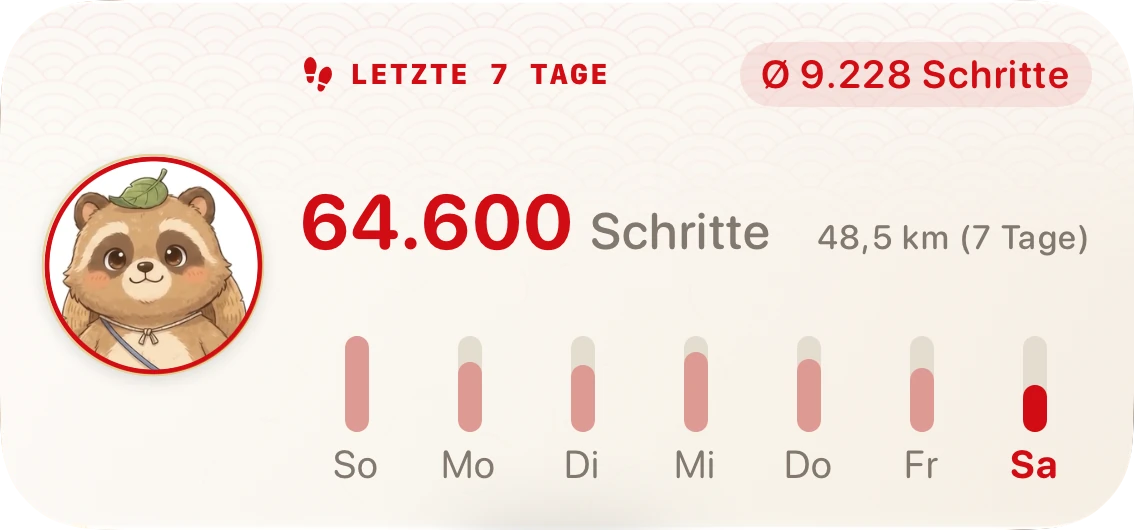
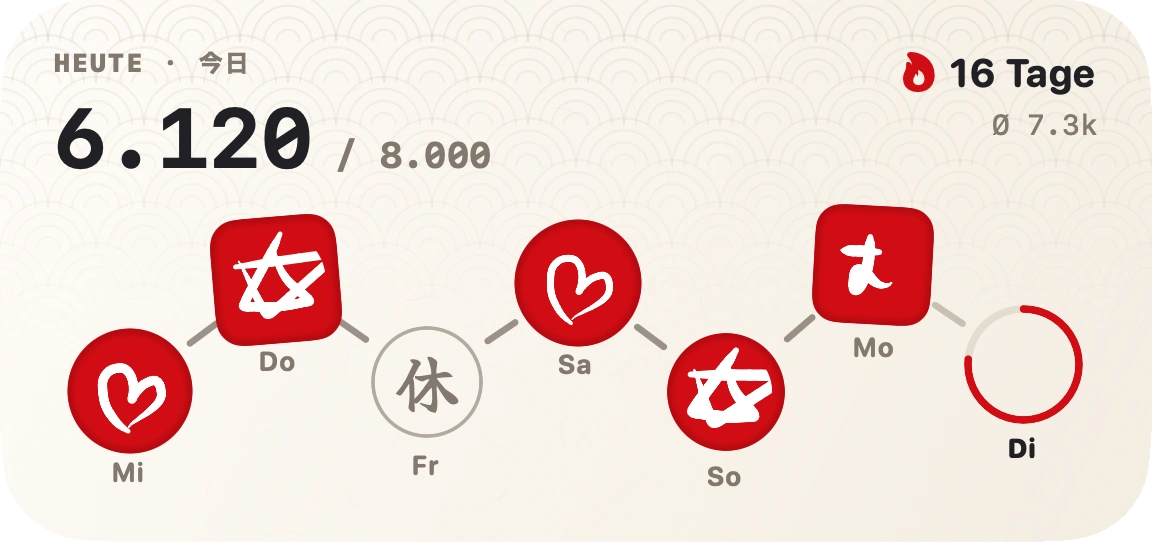
feat(widgets): add medium 7-day stamp widget in de, en, and ja with authentic Hanko stamps

diff --git a/js/translations.js b/js/translations.js
@@ -157,7 +157,7 @@ const translations = {
     // Home Screen Widgets
     widgets_tag: "DEINE REISE AUF DEM HOMESCREEN · ホーム画面",
     widgets_title: "Deine Reise immer im Blick.",
-    widgets_desc: "Das neue Reise-Widget mit Japan-Karte und Gesamtkilometern, dein Reiseticket und deine Stempel-Sammelkarte: Die Widgets bringen deine Reise direkt auf den Homescreen.",
+    widgets_desc: "Das 7-Tage-Stempel-Widget, das Reise-Widget mit Japan-Karte, dein Reiseticket und deine Stempel-Sammelkarte: Die Widgets bringen deine Reise direkt auf den Homescreen.",
     plan_founder_note: "Wer bis 31.12. abschließt, behält 19,99 € pro Jahr, solange das Abo läuft. Danach kostet das Jahresabo 24,99 €.",
     plan_switch_yearly: "Jährlich",
     plan_switch_monthly: "Monatlich",
@@ -421,7 +421,7 @@ const translations = {
     // Home Screen Widgets
     widgets_tag: "YOUR JOURNEY ON YOUR HOME SCREEN · ホーム画面",
     widgets_title: "Your Journey Always in View.",
-    widgets_desc: "The new journey widget featuring the Japan map and total kilometres, your journey ticket and your stamp collection card: bringing your journey straight to your Home Screen.",
+    widgets_desc: "The new 7-day stamp widget, the journey widget featuring the Japan map and total kilometres, your journey ticket and your stamp collection card: bringing your journey straight to your Home Screen.",
     plan_founder_note: "Subscribe by December 31 and keep $19.99 per year for as long as you stay subscribed. After that the annual pass costs $24.99.",
     plan_switch_yearly: "Yearly",
     plan_switch_monthly: "Monthly",
@@ -685,7 +685,7 @@ const translations = {
     // Home Screen Widgets
     widgets_tag: "ホーム画面で旅を楽しむ · HOME SCREEN",
     widgets_title: "あなたの旅を、いつでも手元に。",
-    widgets_desc: "日本地図と総移動距離を表示する新しい旅ウィジェット、記念乗車券、そしてスタンプ収集カード。ウィジェットで旅をホーム画面に。",
+    widgets_desc: "新しい7日間の歩数スタンプ、日本地図と総移動距離の旅ウィジェット、記念乗車券、そしてスタンプ収集カード。ウィジェットで旅をホーム画面に。",
     plan_founder_note: "12月31日までにご登録の方は、継続中ずっと年額¥3,000のまま。以降の新規登録は年額¥4,000になります。",
     plan_switch_yearly: "年額",
     plan_switch_monthly: "月額",

diff --git a/index.html b/index.html
@@ -457,7 +457,7 @@
         <span class="section-tag" data-i18n="widgets_tag">DEINE REISE AUF DEM HOMESCREEN · ホーム画面</span>
         <h2 class="section-title" data-i18n="widgets_title">Deine Reise immer im Blick.</h2>
         <p class="section-description" data-i18n="widgets_desc">
-          Das neue Reise-Widget mit Japan-Karte und Gesamtkilometern, dein Reiseticket und deine Stempel-Sammelkarte: Die Widgets bringen deine Reise direkt auf den Homescreen.
+          Das 7-Tage-Stempel-Widget, das Reise-Widget mit Japan-Karte, dein Reiseticket und deine Stempel-Sammelkarte: Die Widgets bringen deine Reise direkt auf den Homescreen.
         </p>
       </div>
 
@@ -466,6 +466,7 @@
       <div class="wpile" id="widgetStage">
         <img class="wh-img wpile-item wp-large" data-widget="widget_calendar_large" src="assets/images/widgets/de/widget_calendar_large_light.png?v=20261013" width="1134" height="1182" alt="Stempelbuch-Widget, groß" loading="lazy" decoding="async">
         <img class="wh-img wpile-item wp-ticket-m" data-widget="widget_ticket_medium" src="assets/images/widgets/de/widget_ticket_medium_light.png?v=20261013" width="1134" height="530" alt="Reiseticket-Widget, mittel" loading="lazy" decoding="async">
+        <img class="wh-img wpile-item wp-week-m" data-widget="widget_week_medium" src="assets/images/widgets/de/widget_week_medium_light.png?v=20261013" width="1134" height="530" alt="7-Tage-Stempel-Widget, mittel" loading="lazy" decoding="async">
         <img class="wh-img wpile-item wp-reise-m" data-widget="widget_reise_medium" src="assets/images/widgets/de/widget_reise_medium_light.png?v=20261013" width="1134" height="530" alt="Deine-Reise-Widget, mittel" loading="lazy" decoding="async">
         <img class="wh-img wpile-item wp-cal-s" data-widget="widget_calendar_small" src="assets/images/widgets/de/widget_calendar_small_light.png?v=20261013" width="530" height="530" alt="Stempelbuch-Widget, klein" loading="lazy" decoding="async">
       </div>

diff --git a/css/style.css b/css/style.css
@@ -4169,8 +4169,8 @@ button {
    Breite = Anteil der Buehnenbreite, Hoehe folgt dem Seitenverhaeltnis des Bildes. */
 .wpile {
   position: relative;
-  max-width: 860px;
-  aspect-ratio: 860 / 460;
+  max-width: 880px;
+  aspect-ratio: 880 / 480;
   margin: 40px auto 8px;
 }
 
@@ -4190,21 +4190,23 @@ button {
   transform: rotate(0deg) translateY(-6px) scale(1.03);
 }
 
-.wp-large    { width: 36%; left: 10%; top: 12%; --r: -5deg; z-index: 1; }
-.wp-ticket-m { width: 50%; left: 40%; top: 4%;  --r: 3deg;  z-index: 3; }
-.wp-reise-m  { width: 50%; left: 33%; top: 50%; --r: -2deg; z-index: 2; }
+.wp-large    { width: 36%; left: 8%;  top: 8%;  --r: -5deg;   z-index: 1; }
+.wp-ticket-m { width: 48%; left: 40%; top: 2%;  --r: 3deg;    z-index: 2; }
+.wp-week-m   { width: 48%; left: 44%; top: 30%; --r: -2.5deg; z-index: 4; }
+.wp-reise-m  { width: 48%; left: 36%; top: 56%; --r: 2deg;    z-index: 3; }
 .wp-cal-s    { display: none; }
 
 @media (max-width: 760px) {
   .wpile {
-    aspect-ratio: 343 / 380;
+    aspect-ratio: 343 / 460;
     margin-top: 28px;
   }
 
   .wp-large    { display: none; }
-  .wp-ticket-m { width: 84%; left: 0%;  top: 2%;  --r: -2deg; z-index: 3; }
-  .wp-cal-s    { display: block; width: 44%; left: 54%; top: 28%; --r: 6deg; z-index: 4; }
-  .wp-reise-m  { width: 84%; left: 14%; top: 62%; --r: 2deg;  z-index: 2; }
+  .wp-ticket-m { width: 84%; left: 2%;  top: 2%;  --r: -2.5deg; z-index: 2; }
+  .wp-cal-s    { display: block; width: 44%; left: 52%; top: 20%; --r: 6deg; z-index: 3; }
+  .wp-week-m   { width: 84%; left: 12%; top: 40%; --r: 2.5deg;  z-index: 4; }
+  .wp-reise-m  { width: 84%; left: 2%;  top: 68%; --r: -2deg;   z-index: 2; }
 }
 
 /* ==========================================================================
